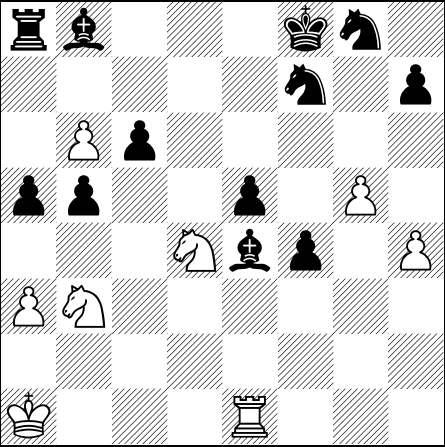
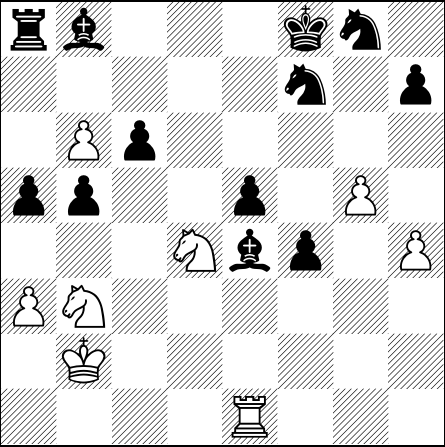
[automated] Regenerate text/pdf for chessboard

Changed region(s): [[0.1169, 0.7562, 0.2337, 0.8725], [0.0, 0.8725, 0.1169, 0.9888]]

diff --git a/default_filepath.tex b/default_filepath.tex
@@ -13,6 +13,6 @@
 \normalsize%
 \setchessboard{showmover=false}%
 \newgame%
-\fenboard{rb3kn1/5n1p/1Pp5/pp2p1P1/3Nbp1P/PN6/8/K3R3 w - - 2 65}%
+\fenboard{rb3kn1/5n1p/1Pp5/pp2p1P1/3Nbp1P/PN6/1K6/4R3 b - - 3 65}%
 \chessboard%
 \end{document}
